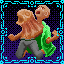
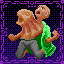
src: Add VFX to Polymorph
fix polymorph icon border

Changed region(s): [[0.0, 0.0, 1.0, 1.0]]

diff --git a/src/cards/polymorph.ts b/src/cards/polymorph.ts
@@ -1,5 +1,5 @@
 import { CardCategory, UnitType } from '../types/commonTypes';
-import { playDefaultSpellSFX } from './cardUtils';
+import { oneOffImage, playDefaultSpellSFX } from './cardUtils';
 import { EffectState, Spell, addTarget, allModifiers, getCurrentTargets, refundLastSpell } from './index';
 import { CardRarity, probabilityMap } from '../types/commonTypes';
 import * as Unit from '../entity/Unit';
@@ -9,10 +9,10 @@ import { allUnits } from '../entity/units';
 import { isModActive } from '../registerMod';
 import Underworld from '../Underworld';
 import { IPickup, isPickup, pickups } from '../entity/Pickup';
-import { bossmasonUnitId } from '../entity/units/deathmason';
 import floatingText from '../graphics/FloatingText';
 import seedrandom from 'seedrandom';
-import { chooseObjectWithProbability, chooseOneOf, chooseOneOfSeeded, getUniqueSeedString } from '../jmath/rand';
+import { chooseObjectWithProbability, chooseOneOfSeeded, getUniqueSeedString } from '../jmath/rand';
+import { containerProjectiles } from '../graphics/PixiUtils';
 
 export const polymorphId = 'Polymorph';
 const spell: Spell = {
@@ -35,18 +35,33 @@ const spell: Spell = {
       }
 
       playDefaultSpellSFX(card, prediction);
+      const promises = [];
 
       for (let i = 0; i < quantity; i++) {
         for (const target of targets) {
-          if (Unit.isUnit(target)) {
-            // Replace current unit with new unit
-            polymorphUnit(target, underworld, prediction, undefined, state);
-          } else if (isPickup(target)) {
-            // Replace current pickup with new pickup
-            polymorphPickup(target, underworld, prediction, undefined, state);
-          }
+          promises.push(new Promise<void>(resolve => {
+            if (!prediction) {
+              const animatingSpell = oneOffImage(target, 'spell-effects/spellPurify', containerProjectiles, resolve);
+              if (animatingSpell) {
+                animatingSpell.sprite.tint = 0x643B9F;
+              }
+            } else {
+              resolve();
+            }
+          }).then(() => {
+
+            if (Unit.isUnit(target)) {
+              // Replace current unit with new unit
+              polymorphUnit(target, underworld, prediction, undefined, state);
+            } else if (isPickup(target)) {
+              // Replace current pickup with new pickup
+              polymorphPickup(target, underworld, prediction, undefined, state);
+            }
+          }));
+
         }
       }
+      await Promise.all(promises);
 
       return state;
     },
@@ -78,7 +93,6 @@ function polymorphUnit(fromUnit: Unit.IUnit, underworld: Underworld, prediction:
 
       // TODO - Improve probability curve and move to unit test
       // https://github.com/jdoleary/Spellmasons/pull/583#discussion_r1551439805
-      console.log("stest", fromUnit.unitSourceId, "->", p.id, probability);
 
       return { unitSource: p, probability }
     }), seed)?.unitSource.id;
